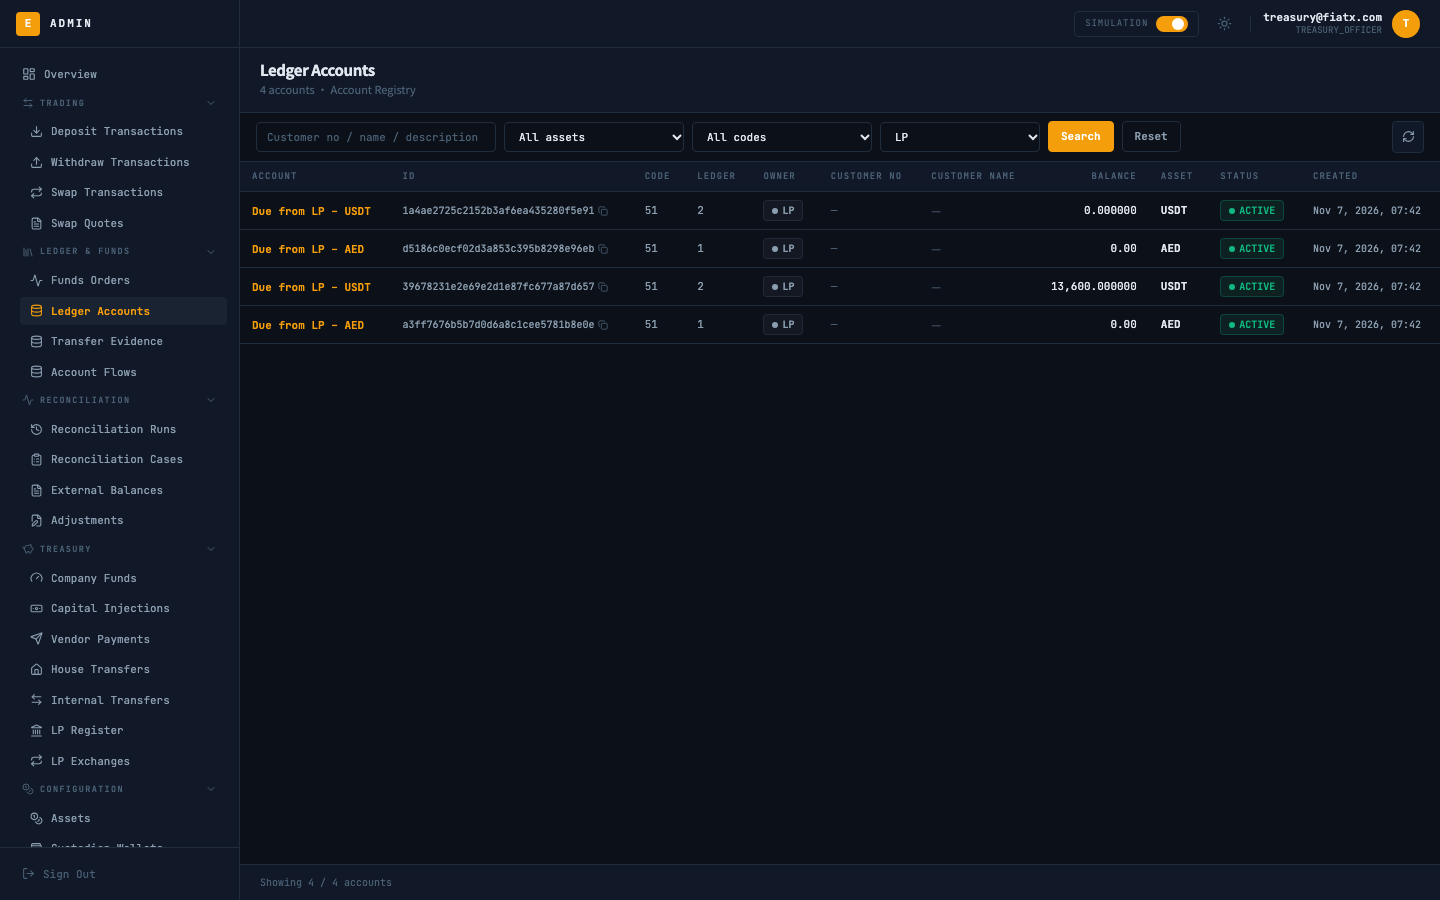
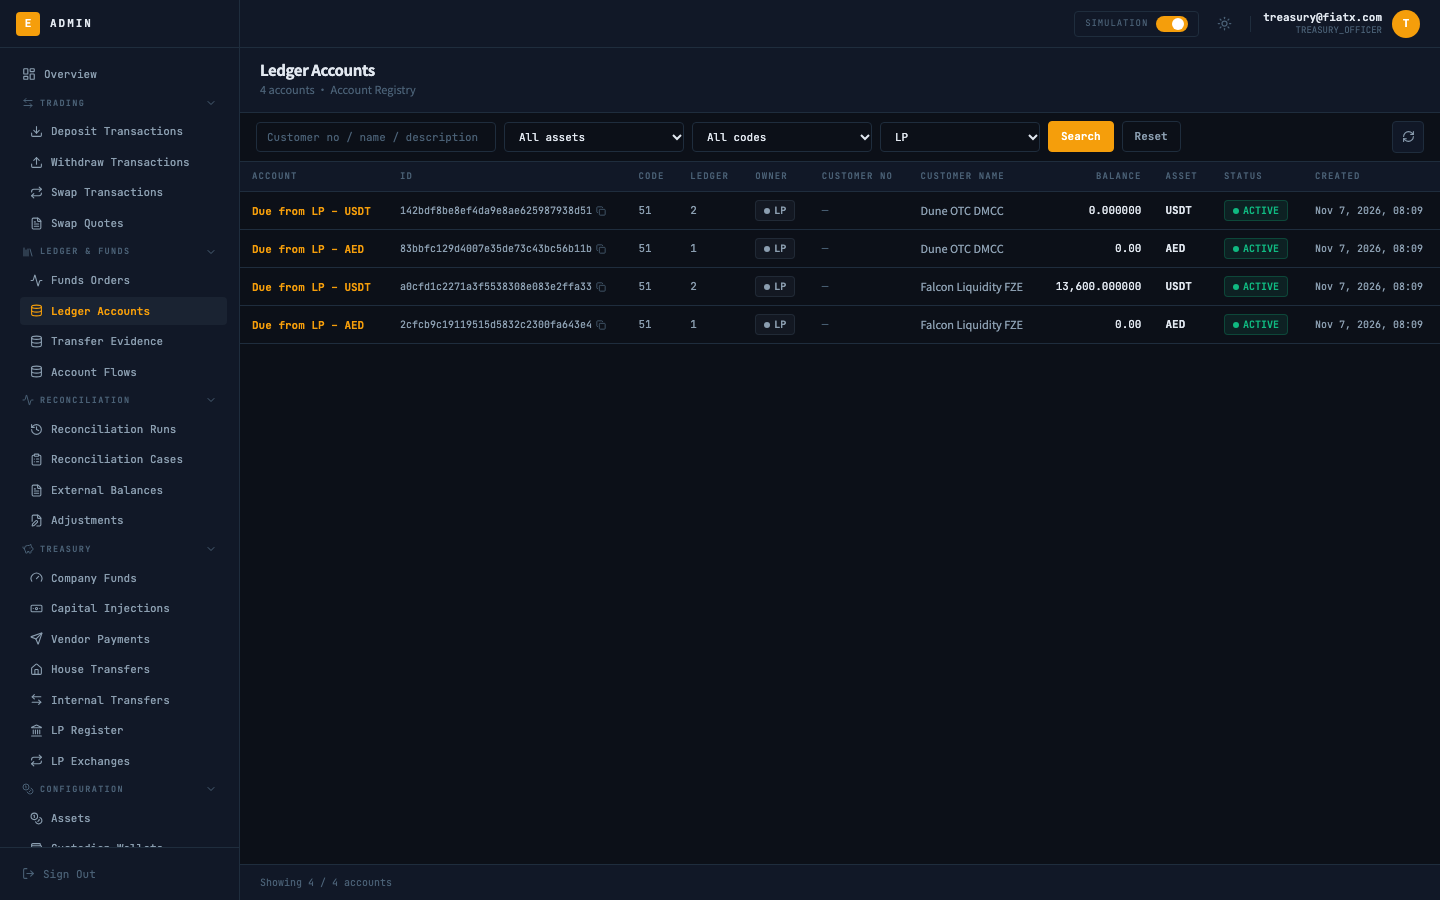
fix(戊波二): 对内不平读面——结案 Hero 过去时、列表显示账内 Δ、LP 户名

diff --git a/admin-web/src/components/reconciliation/CaseBalanceTiles.tsx b/admin-web/src/components/reconciliation/CaseBalanceTiles.tsx
@@ -8,7 +8,7 @@ import { Check, AlertTriangle } from 'lucide-react';
 import { DetailCard } from '../compliance/DetailPageComponents';
 import type { ReconCaseDetail } from '../../utils/reconTypes';
 import { formatAmount, isZeroAmount } from '../../utils/reconAmount';
-import { buildInternalCheckLine } from '../../utils/caseInternalCheck';
+import { buildInternalCheckLine, hasInternalBreak } from '../../utils/caseInternalCheck';
 
 export const CaseBalanceTiles = ({
   kase, deltaZero, sign,
@@ -83,42 +83,54 @@ export const CaseBalanceTiles = ({
         </div>
         {/* Unexplained (residual) — the core investigation signal. Red
             highlight when non-zero (still needs digging); muted green
-            check when zero (delta fully explained by in-transit). */}
-        <div
-          className={[
-            'rounded-lg border p-4',
-            kase.explain && isZeroAmount(kase.explain.residual)
-              ? 'border-adm-green/30 bg-adm-green/5'
-              : 'border-adm-red/30 bg-adm-red/5',
-          ].join(' ')}
-        >
-          <div
-            className={[
-              'font-mono text-[9px] uppercase tracking-wider',
-              kase.explain && isZeroAmount(kase.explain.residual) ? 'text-adm-green' : 'text-adm-red',
-            ].join(' ')}
-          >
-            Unexplained
-          </div>
-          <div
-            className={[
-              'mt-1 font-mono text-[18px] font-bold leading-tight',
-              kase.explain && isZeroAmount(kase.explain.residual) ? 'text-adm-t3' : 'text-adm-red',
-            ].join(' ')}
-          >
-            {kase.explain ? formatAmount(kase.explain.residual, kase.decimals) : '—'}
-          </div>
-          <div
-            className={[
-              'mt-1 inline-flex items-center gap-1 font-mono text-[10px]',
-              kase.explain && isZeroAmount(kase.explain.residual) ? 'text-adm-green' : 'text-adm-red',
-            ].join(' ')}
-          >
-            {!kase.explain ? null : isZeroAmount(kase.explain.residual)
-              ? <><Check size={10} /> explained</>
-              : <><AlertTriangle size={10} /> needs investigation</>}
-          </div>
-        </div>
+            check when zero (delta fully explained by in-transit).
+            戊波二 T10：对外差额已解释干净（residual 0）但钱包自己的两本账此刻还对不上（副行 Δ ≠ 0）时，
+            不能亮绿色「✓ explained」——账没平。这时整格退成中性灰、不放勾（不另造新格，副行与 INVARIANT 行说清账内的事）。 */}
+        {(() => {
+          const residualZero = !!kase.explain && isZeroAmount(kase.explain.residual);
+          const booksBroken = hasInternalBreak(kase.explain?.internalBreakdown);
+          const clear = residualZero && !booksBroken;      // 绿：对外全解释 且 账内也平
+          const neutral = residualZero && booksBroken;     // 灰：对外已解释，但账内没平
+          return (
+            <div
+              className={[
+                'rounded-lg border p-4',
+                clear ? 'border-adm-green/30 bg-adm-green/5'
+                  : neutral ? 'border-adm-border bg-adm-bg'
+                  : 'border-adm-red/30 bg-adm-red/5',
+              ].join(' ')}
+            >
+              <div
+                className={[
+                  'font-mono text-[9px] uppercase tracking-wider',
+                  clear ? 'text-adm-green' : neutral ? 'text-adm-t3' : 'text-adm-red',
+                ].join(' ')}
+              >
+                Unexplained
+              </div>
+              <div
+                className={[
+                  'mt-1 font-mono text-[18px] font-bold leading-tight',
+                  residualZero ? 'text-adm-t3' : 'text-adm-red',
+                ].join(' ')}
+              >
+                {kase.explain ? formatAmount(kase.explain.residual, kase.decimals) : '—'}
+              </div>
+              {!neutral && (
+                <div
+                  className={[
+                    'mt-1 inline-flex items-center gap-1 font-mono text-[10px]',
+                    clear ? 'text-adm-green' : 'text-adm-red',
+                  ].join(' ')}
+                >
+                  {!kase.explain ? null : residualZero
+                    ? <><Check size={10} /> explained</>
+                    : <><AlertTriangle size={10} /> needs investigation</>}
+                </div>
+              )}
+            </div>
+          );
+        })()}
       </div>
       {/* 戊波二 T10：Internal 格的副行（只有客户钱包案有）——钱包自己的两本账：现金 + 短缺待补 对 应付 + 暂扣。
           四个数与 Δ 都是后端检查器按案件截止点现算的（和跑批同一份算式），这里只排版；Δ ≠ 0 红。

diff --git a/admin-web/src/pages/ReconciliationCasesListPage.tsx b/admin-web/src/pages/ReconciliationCasesListPage.tsx
@@ -26,6 +26,7 @@ import Pagination from '../components/common/Pagination';
 // ReconciliationDispositionModal 都已这样引用）。Task 15：COA 人话短语同理复用
 // utils/causeRegistry 已导出的 COA_PHRASE，不重抄一份映射。
 import { formatAmount } from '../utils/reconAmount';
+import { listBooksDelta } from '../utils/caseInternalCheck';
 import { COA_PHRASE, PAUSED_CAUSES } from '../utils/causeRegistry';
 // 门控一致性小补（本任务）：气泡此前只按数据在场显示——补上与详情页行级推荐同一个
 // 模拟开关（业主原话「依然是模拟开关下展示」）。
@@ -41,6 +42,8 @@ interface ReconCase {
   coaCode: string | null;
   ownerNo: string | null;
   deltaAmount: string;
+  // 戊波二 T10：对内差额（签名最小单位字符串，随 ...r 下发）；公司钱包案 / 老案 null。仅对内不平的案子 deltaAmount 恒 0，Δ 格据此改显「books Δ」。
+  internalDeltaAmount?: string | null;
   status: string;
   aging: number;
   slaBreached: boolean;   // 平账 A 批：账龄到线标记
@@ -277,6 +280,8 @@ const ReconciliationCasesListPage = () => {
                 const deltaNum = Number(kase.deltaAmount ?? '0');
                 const hasDelta = Number.isFinite(deltaNum) && deltaNum !== 0;
                 const deltaSign = deltaNum > 0 ? '+' : '';
+                // 戊波二 T10：账内两本账对不上（开着的案子、对内差额 ≠ 0）——外部 Δ 为 0 时这一格不能说「balanced」。
+                const booksDelta = listBooksDelta(kase, (v) => formatAmount(v, kase.decimals));
                 return (
                   <tr
                     key={kase.id}
@@ -338,15 +343,21 @@ const ReconciliationCasesListPage = () => {
                     {/* Δ — bold+signed when non-zero; muted "balanced" when zero */}
                     <td
                       className="truncate px-4 py-2.5 text-right"
-                      title={hasDelta ? `${deltaSign}${formatAmount(kase.deltaAmount, kase.decimals)}` : undefined}
+                      title={hasDelta ? `${deltaSign}${formatAmount(kase.deltaAmount, kase.decimals)}` : booksDelta ? `Books out of balance: ${booksDelta}` : undefined}
                     >
                       {hasDelta ? (
                         <span className="font-mono text-[11px] font-semibold text-adm-amber">
                           {deltaSign}
                           {formatAmount(kase.deltaAmount, kase.decimals)}
                         </span>
-                      ) : (
+                      ) : booksDelta ? null : (
                         <span className="font-mono text-[10px] italic text-adm-t3">balanced</span>
+                      )}
+                      {/* 账内 Δ：外部 Δ 为 0 时单独成这一格的内容；两种差额并存时跟在外部 Δ 后面。 */}
+                      {booksDelta && (
+                        <span className={`font-mono text-[10px] font-semibold text-adm-red${hasDelta ? ' ml-2' : ''}`}>
+                          books Δ {booksDelta}
+                        </span>
                       )}
                     </td>
 

diff --git a/admin-web/src/utils/caseInternalCheck.spec.ts b/admin-web/src/utils/caseInternalCheck.spec.ts
@@ -1,6 +1,6 @@
 // 戊波二 T10：案件页 Internal 格副行 + 跑批页 Internal check 列的纯函数回归。
 // fmt 用与页面 formatAmount 等价的简化实现（最小单位整数字符串 → 千分位两位小数）。
-import { buildInternalCheckLine, internalCheckCell } from './caseInternalCheck';
+import { buildInternalCheckLine, hasInternalBreak, internalCheckCell, listBooksDelta } from './caseInternalCheck';
 
 const fmt = (v: string): string => {
   const neg = v.startsWith('-');
@@ -47,5 +47,32 @@ describe('internalCheckCell', () => {
   it('非零 → break，带符号的差额', () => {
     expect(internalCheckCell('25000', fmt)).toEqual({ kind: 'break', text: '+250.00' });
     expect(internalCheckCell('-25000', fmt)).toEqual({ kind: 'break', text: '-250.00' });
+  });
+});
+
+describe('hasInternalBreak', () => {
+  const b = (delta: string) => ({ cash: '1', shortfall: '0', payable: '1', suspense: '0', delta });
+  it('Δ ≠ 0（正负都算）→ true；Δ = 0 / 无副行（公司钱包案）→ false', () => {
+    expect(hasInternalBreak(b('25000'))).toBe(true);
+    expect(hasInternalBreak(b('-25000'))).toBe(true);
+    expect(hasInternalBreak(b('0'))).toBe(false);
+    expect(hasInternalBreak(b('-0'))).toBe(false);
+    expect(hasInternalBreak(null)).toBe(false);
+    expect(hasInternalBreak(undefined)).toBe(false);
+  });
+});
+
+describe('listBooksDelta（案件列表 Δ 格的账内 Δ）', () => {
+  it('开着的案子对内差额 ≠ 0 → 带符号文本（正 +、负 -）', () => {
+    expect(listBooksDelta({ status: 'OPEN', internalDeltaAmount: '25000' }, fmt)).toBe('+250.00');
+    expect(listBooksDelta({ status: 'OPEN', internalDeltaAmount: '-25000' }, fmt)).toBe('-250.00');
+  });
+  it('0 / null / 缺省（公司钱包案、老案）→ null', () => {
+    expect(listBooksDelta({ status: 'OPEN', internalDeltaAmount: '0' }, fmt)).toBeNull();
+    expect(listBooksDelta({ status: 'OPEN', internalDeltaAmount: null }, fmt)).toBeNull();
+    expect(listBooksDelta({ status: 'OPEN' }, fmt)).toBeNull();
+  });
+  it('已结案（库里留着破口那一刻的值，账早已更正）→ null，不能再亮红 Δ', () => {
+    expect(listBooksDelta({ status: 'RESOLVED', internalDeltaAmount: '25000' }, fmt)).toBeNull();
   });
 });

diff --git a/admin-web/src/utils/caseConclusion.ts b/admin-web/src/utils/caseConclusion.ts
@@ -52,10 +52,13 @@ export function buildCaseConclusion(
     // 戊波二 T10：对外差额为 0、只有钱包自己的两本账对不上（INVARIANT）——下面「External balance is 0.00 … short of / in excess of
     // our books … full amount unexplained」对这种案子是句空话。正数 = 现金 + 短缺待补 多于 应付 + 暂扣。
     const more = parseFloat(k.internalDeltaAmount as string) > 0 ? 'more' : 'less';
-    base = {
-      text: `External balance matches our cash, but this wallet's own books do not agree — cash + shortfall is ${fmt(absStr(k.internalDeltaAmount as string))} ${k.assetCode} ${more} than payable + held. Needs a correcting entry.`,
-      tone: 'red',
-    };
+    base = k.status === 'RESOLVED'
+      // 已结案（自愈）= 账早已更正归零（副行 Δ 0.00）：说过去时，不再「Needs a correcting entry」。金额取破口那一刻存下的对内差额。
+      ? { text: `Books were ${fmt(absStr(k.internalDeltaAmount as string))} ${k.assetCode} out of balance; corrected by a later entry.`, tone: 'red' }
+      : {
+        text: `External balance matches our cash, but this wallet's own books do not agree — cash + shortfall is ${fmt(absStr(k.internalDeltaAmount as string))} ${k.assetCode} ${more} than payable + held. Needs a correcting entry.`,
+        tone: 'red',
+      };
   } else if (k.bucket === 'BREAK') {
     // 规则2/3（Task 8 重写；Fix round 修正方向口径）：dir 由 deltaAmount 符号定——
     // 负数=外部少于账上=short of，正数=外部多于账上（盈余案）=in excess of；此前

diff --git a/admin-web/src/utils/caseConclusion.spec.ts b/admin-web/src/utils/caseConclusion.spec.ts
@@ -71,9 +71,12 @@ describe('buildCaseConclusion', () => {
     expect(buildCaseConclusion({ ...base, internalDeltaAmount: null }, fmt)?.text).toContain('short of our books');
   });
 
-  it('戊波二 T10：已结案的对内案前缀 Resolved ·', () => {
+  it('戊波二 T10：已结案的对内案说过去时——「Resolved · Books were 250.00 AED out of balance; corrected by a later entry.」，不再说 does not agree / Needs a correcting entry（正负差额一样）', () => {
     const c = buildCaseConclusion({ ...base, status: 'RESOLVED', deltaAmount: '0', internalDeltaAmount: '25000' }, fmt);
-    expect(c?.text.startsWith('Resolved · External balance matches our cash')).toBe(true);
+    expect(c).toEqual({ text: 'Resolved · Books were 250.00 AED out of balance; corrected by a later entry.', tone: 'neutral' });
+    const neg = buildCaseConclusion({ ...base, status: 'RESOLVED', deltaAmount: '0', internalDeltaAmount: '-25000' }, fmt);
+    expect(neg?.text).toBe('Resolved · Books were 250.00 AED out of balance; corrected by a later entry.');
+    expect(`${c?.text}${neg?.text}`).not.toMatch(/Needs a correcting entry|do not agree/);
   });
 
   it('BREAK + explainedSum 未传（undefined）同样落全额未解释模板', () => {

diff --git a/admin-web/src/utils/caseInternalCheck.ts b/admin-web/src/utils/caseInternalCheck.ts
@@ -42,3 +42,21 @@ export const internalCheckCell = (
   if (isZeroAmount(internalDelta)) return { kind: 'ok' };
   return { kind: 'break', text: signedDelta(internalDelta, fmt) };
 };
+
+/** 案件的两本账此刻还对不上吗（副行的 Δ ≠ 0）。Unexplained 格据此不再亮绿色「✓ explained」——对外差额已解释干净不等于账平。 */
+export const hasInternalBreak = (b: InternalBreakdown | null | undefined): boolean =>
+  !!b && !isZeroAmount(b.delta);
+
+/**
+ * 案件列表 Δ 格的「账内 Δ」：只对开着的案子、且对内差额 ≠ 0 才有值（带符号文本）。
+ * 已结案（自愈）的案子库里存的是破口那一刻的对内差额，账早已更正，不能再显示成红 Δ；公司钱包案 / 老案 null 同样无值。
+ */
+export const listBooksDelta = (
+  c: { status: string; internalDeltaAmount?: string | null },
+  fmt: (v: string) => string,
+): string | null => {
+  if (c.status !== 'OPEN') return null;
+  const d = c.internalDeltaAmount;
+  if (d === null || d === undefined || isZeroAmount(d)) return null;
+  return signedDelta(d, fmt);
+};

diff --git a/admin-web/src/pages/LedgerAccountList.tsx b/admin-web/src/pages/LedgerAccountList.tsx
@@ -351,9 +351,9 @@ const LedgerAccountList = () => {
                     <span className="text-adm-t3">—</span>
                   )}
                 </td>
-                {/* Customer Name */}
+                {/* Customer Name —— 戊波二 T10：LP 行（应收 LP 户）同样给名字（端点按 LP 档案联出 ownerName，与 CUSTOMER 行同款） */}
                 <td className="px-3 py-2 text-[11px] text-adm-t2">
-                  {row.ownerType === 'CUSTOMER' && row.ownerName ? (
+                  {(row.ownerType === 'CUSTOMER' || row.ownerType === 'LP') && row.ownerName ? (
                     row.ownerName
                   ) : (
                     <span className="text-adm-t3">—</span>

diff --git a/doc-final/superpowers/checkups/2026-11-07-campaign-e-wave2-evidence/t10-read-surface-evidence.md b/doc-final/superpowers/checkups/2026-11-07-campaign-e-wave2-evidence/t10-read-surface-evidence.md
@@ -104,3 +104,12 @@
 `bash scripts/stack.sh reset self`（0）→ `up`（0）→ `bash scripts/on-stack.sh self demo:all`（0；`花名册：35/35 符合预期`、`asserts: 5/5 PASS`）。栈停在这个态：案件 0 条。`doc-final/demo/data.md` 未被 `demo:all` 改写（`git status` 无此文件）。
 
 重铺后 `reconciliation_dispositions` 仍有 30 行（本次 e2e 留下的，印证 TOOLING-DEBT 新条）；收尾时手工 `delete from reconciliation_dispositions` 清到 0（仅自栈库），好让下个任务的案件列表不带陈年计数。
+
+## 7. 修复轮 1（`fix(戊波二): 对内不平读面——结案 Hero 过去时、列表显示账内 Δ、LP 户名`，R38）
+
+1. **结案 Hero**：已结案的对内案不再说「does not agree … Needs a correcting entry」，改说 `Resolved · Books were 250.00 AED out of balance; corrected by a later entry.`（`caseConclusion.ts`，+spec）。
+2. **案件列表 Δ 格**：开着的案子对内差额 ≠ 0 时显示红 `books Δ ±x`（外部 Δ 为 0 就替掉「balanced」；两种差额并存则跟在外部 Δ 后）；已结案不显示（库里留的是破口那一刻的值）。纯函数 `listBooksDelta`（`caseInternalCheck.ts`，+spec）；`ReconciliationCasesListPage` 接口补 `internalDeltaAmount`。Disposition 列 `0/1` 不动。
+3. **Unexplained 格**：对外 residual 为 0 但副行 Δ ≠ 0 时退成中性灰、不放绿色「✓ explained」（纯函数 `hasInternalBreak`，+spec）；账平后（含已结案）仍是绿色。
+4. **台账页 Owner=LP**：「Customer Name」列对 LP 行也显示 `ownerName`（`LedgerAccountList.tsx`）。
+
+重拍：`t10-case-invariant-row` / `t10-case-list-invariant-count` / `t10-case-invariant-healed` / `t10-ledger-accounts-owner-lp`（均 Read 过）。
